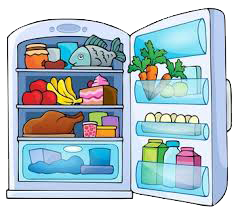
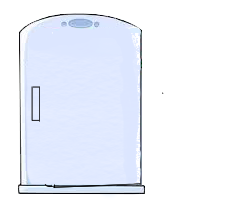
addMouseListener to fridge

diff --git a/src/Scene_2.java b/src/Scene_2.java
@@ -55,6 +55,19 @@ class Scene_2 extends Scene {
         fridge.setIcon(fridgeIcon[0]);
         fridge.setBounds(fridge_x, fridge_y, fridgeIcon[0].getIconWidth(), fridgeIcon[0].getIconHeight());
 
+        fridge.addMouseListener(new MouseAdapter() {
+            private boolean opened = false;
+            public void mouseClicked(MouseEvent e) { fridge.setIcon(fridgeIcon[2]); opened = true; }
+            public void mouseExited(MouseEvent e) {
+                if (!opened) return;
+                fridge.setIcon(fridgeIcon[1]);
+                Timer timer = new Timer();
+                timer.schedule(new TimerTask() {
+                    public void run() { fridge.setIcon(fridgeIcon[0]); opened = false; }
+                }, 300);
+            }
+        });
+
         background.add(table);
         background.add(sink);
         background.add(fridge);
